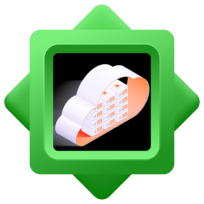
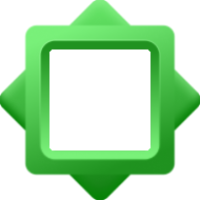
Changelog
- Edição das imagens das badges para ficar o frame com um background
- Fix do sistema de escolher imagem para as badges

diff --git a/Projecto/server/src/models/consultorModel.js b/Projecto/server/src/models/consultorModel.js
@@ -1026,6 +1026,44 @@ const buildProfileData = async (accountId) => {
     points: Number(r.points) || 0,
   }));
 
+  // Build a lightweight certifications list from recently obtained badges
+  const certRows = await sequelize.query(
+    `
+      SELECT DISTINCT ON (cb.nbadge)
+        cb.nbadge,
+        b.b_nome,
+        n.nivel,
+        t.tipo
+      FROM c_obtem_b AS cb
+      INNER JOIN badge AS b
+        ON b.nbadge = cb.nbadge
+      LEFT JOIN nivel_contem_b AS ncb
+        ON ncb.nbadge = b.nbadge
+      LEFT JOIN nivel AS n
+        ON n.nnivel = ncb.nnivel
+      LEFT JOIN tipo AS t
+        ON t.ntipo = b.ntipo
+      WHERE cb.nutilizador = :accountId
+      ORDER BY cb.nbadge, cb.data_obtencao DESC
+      LIMIT 5
+    `,
+    {
+      replacements: { accountId: parsedAccountId },
+      type: QueryTypes.SELECT,
+    },
+  );
+
+  const certificationsItems = (certRows || []).map((r) => {
+    const template = typeof resolveBadgeTemplate === 'function'
+      ? resolveBadgeTemplate(r.nivel, 0, r.tipo)
+      : { levelKey: 'badge_level_specialist' };
+
+    return {
+      title: r.b_nome || r.nivel || 'Badge',
+      levelKey: template.levelKey || 'badge_level_specialist',
+    };
+  });
+
   // Fetch request count for this user
   const requestCountRows = await sequelize.query(
     `
@@ -1145,6 +1183,7 @@ const buildProfileData = async (accountId) => {
       accent: 'yellow',
     })),
     activityItems: activityItems.length > 0 ? activityItems : clone(profileData.activityItems),
+    certificationsItems: certificationsItems.length > 0 ? certificationsItems : clone(profileData.certificationsItems || []),
     user: {
       id: Number(row.id),
       name: row.nome,

diff --git a/Projecto/src/components/BadgeImage.jsx b/Projecto/src/components/BadgeImage.jsx
@@ -5,6 +5,7 @@ const badgeFrameByLevel = {
   badge_level_intermediate: '/badges/Interm%C3%A9dio.png',
   badge_level_senior: '/badges/S%C3%A9nior.png',
   badge_level_specialist: '/badges/Especialista.png',
+  special: '/badges/Especial.png',
   badge_level_knowledge_lead: '/badges/L%C3%ADder%20de%20Conhecimento.png',
 };
 
@@ -47,6 +48,10 @@ const resolveBadgeFrameImage = ({ levelKey, typeId, levelLabel }) => {
 
   if (normalized.includes('especialista') || normalized.includes('specialist')) {
     return badgeFrameByLevel.badge_level_specialist;
+  }
+
+  if (normalized.includes('especial') || normalized.includes('special')) {
+    return badgeFrameByLevel.special;
   }
 
   if (normalized.includes('lider') || normalized.includes('lead')) {
@@ -92,8 +97,8 @@ function BadgeImage({
       aria-hidden={alt ? undefined : true}
     >
       <span className="badge-image-composite-stage" aria-hidden="true">
-        <img className="badge-image-composite-frame" src={resolvedFrameSrc} alt="" />
         <img className="badge-image-composite-inner" src={resolvedImageSrc} alt="" />
+        <img className="badge-image-composite-frame" src={resolvedFrameSrc} alt="" />
       </span>
     </span>
   );

diff --git a/Projecto/src/pages/AdminGestor/BadgeAdmin.jsx b/Projecto/src/pages/AdminGestor/BadgeAdmin.jsx
@@ -141,7 +141,7 @@ const buildFormState = (badge, isCreate) => {
       ? 0
       : levelMeta.points;
 
-  const badgeImage = badge?.badgeImage || (isSpecial ? '/badges/default.png' : levelMeta.badgeImage);
+  const badgeImage = badge?.badgeImage || (isSpecial ? '/badges/Especial.png' : levelMeta.badgeImage);
 
   const specialRequirements = Array.isArray(badge?.specialRequirements) && badge.specialRequirements.length > 0
     ? badge.specialRequirements.map((req) => buildRequirement(req))
@@ -405,7 +405,7 @@ function BadgeAdmin() {
   const clearCustomImage = () => {
     setForm((current) => ({
       ...current,
-      badgeImage: isSpecial ? '/badges/default.png' : selectedBadgeTypeMeta.badgeImage,
+      badgeImage: isSpecial ? '/badges/Especial.png' : selectedBadgeTypeMeta.badgeImage,
     }));
   };
 

diff --git a/Projecto/src/css/Shared/BadgeImage.css b/Projecto/src/css/Shared/BadgeImage.css
@@ -8,11 +8,7 @@
 
 .badge-image-composite-stage {
   position: absolute;
-  top: 50%;
-  left: 50%;
-  height: 100%;
-  aspect-ratio: 1;
-  transform: translate(-50%, -50%);
+  inset: 0;
 }
 
 .badge-image-composite-frame,
@@ -27,15 +23,14 @@
   width: 100%;
   height: 100%;
   object-fit: contain;
+  object-position: center;
 }
 
 .badge-image-composite-inner {
-  z-index: 2;
-  left: 18%;
-  top: 14%;
-  width: 64%;
-  height: 66%;
-  object-fit: cover;
-  background: #ffffff;
-  clip-path: polygon(8% 0, 92% 0, 100% 9%, 100% 73%, 50% 100%, 0 73%, 0 9%);
+  z-index: 0;
+  inset: 0;
+  width: 100%;
+  height: 100%;
+  object-fit: contain;
+  object-position: center;
 }

diff --git a/Projecto/src/PerfilPublico.jsx b/Projecto/src/PerfilPublico.jsx
@@ -96,6 +96,12 @@ function PerfilPublico() {
 						})) : [],
 						location: data.location || 'Portugal',
 						joined: data.joined || data.user?.joined || '',
+							certificationsItems: Array.isArray(data.certificationsItems) ? data.certificationsItems
+								.map((item) => ({
+									title: item.title || item.name || '',
+									levelKey: item.levelKey || item.subtitleKey || '',
+								}))
+								.filter((it) => it.title) : [],
 					};
 
 					setRemoteConsultor(mapped);
